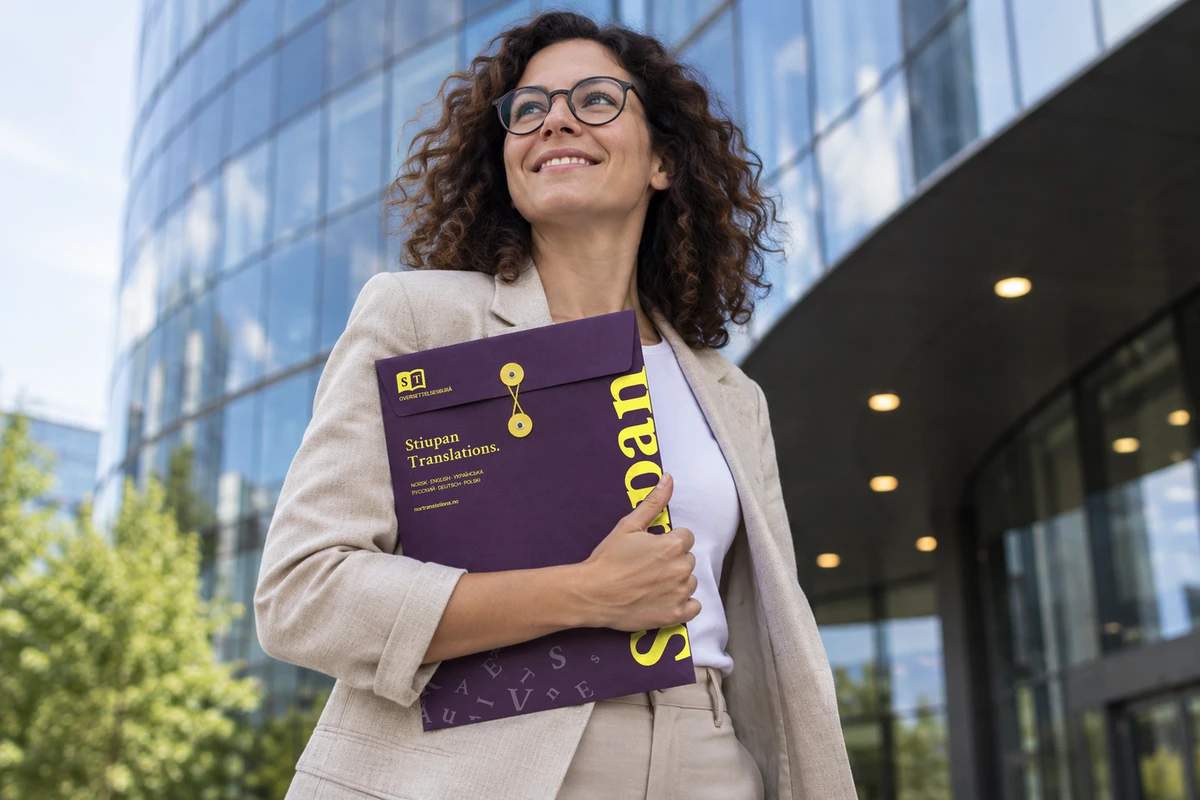
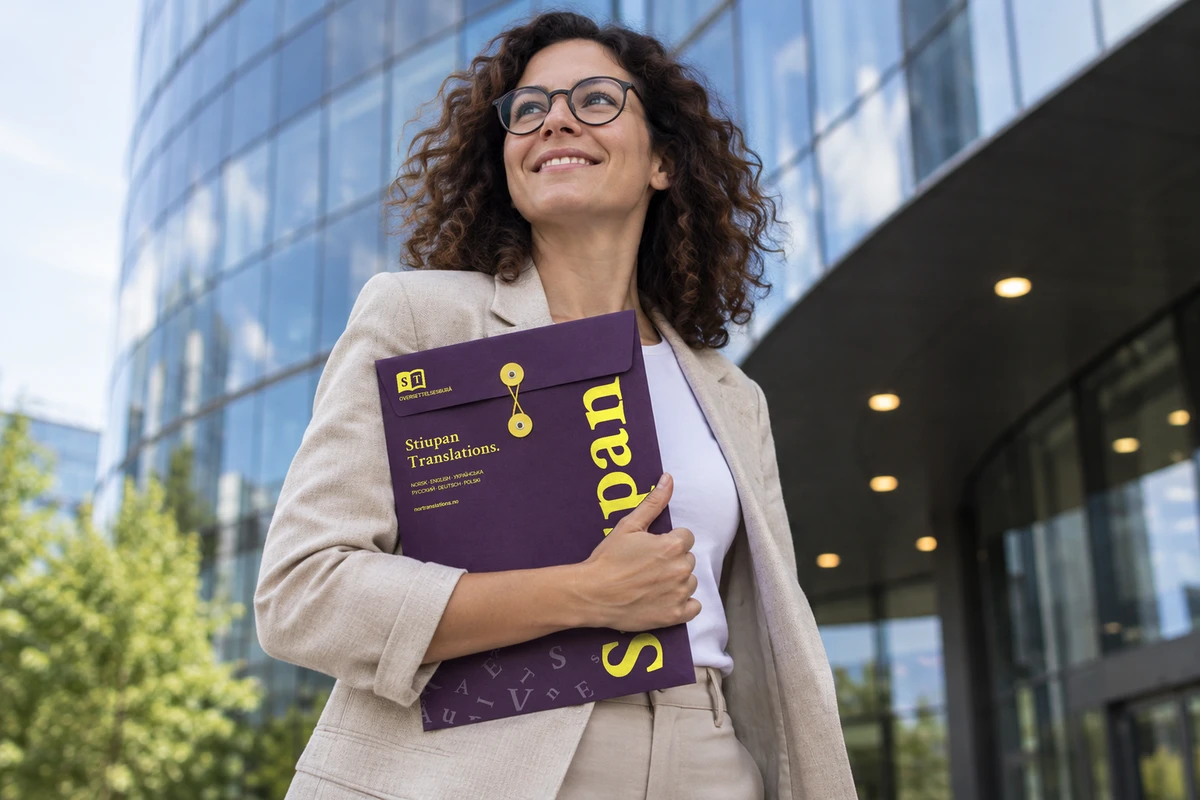
Styupan In use: whole wordmark inside the folder edge, no yellow on her thumb

Changed region(s): [[0.4625, 0.4688, 0.555, 0.6562], [0.4933, 0.7812, 0.5858, 0.8438]]

diff --git a/styupan.html b/styupan.html
@@ -285,7 +285,7 @@ footer .wrap{display:flex;justify-content:space-between;gap:16px;flex-wrap:wrap}
   <section class="wrap brand-sec" aria-labelledby="use-title">
     <div class="sec-head"><h2 id="use-title">In use</h2><span>Folder and stationery</span></div>
     <figure class="photo-fig">
-      <img src="assets/work/styupan/folder-1200.webp?v=5" srcset="assets/work/styupan/folder-1200.webp?v=5 1200w, assets/work/styupan/folder-1536.webp?v=5 1536w" sizes="(min-width:1320px) 1200px, 92vw" alt="A woman in a light linen jacket outside a glass office building carries a purple Stiupan Translations envelope folder hugged to her chest, with a yellow button-and-string closure, the mark on the flap, the name Stiupan set large up its right edge and pale letters scattered in the bottom corner." width="1200" height="800" loading="lazy">
+      <img src="assets/work/styupan/folder-1200.webp?v=6" srcset="assets/work/styupan/folder-1200.webp?v=6 1200w, assets/work/styupan/folder-1536.webp?v=6 1536w" sizes="(min-width:1320px) 1200px, 92vw" alt="A woman in a light linen jacket outside a glass office building carries a purple Stiupan Translations envelope folder hugged to her chest, with a yellow button-and-string closure, the mark on the flap, the name Stiupan set large up its right edge and pale letters scattered in the bottom corner." width="1200" height="800" loading="lazy">
     </figure>
     <figure class="panel">
       <div class="desk" role="img" aria-label="Stationery laid flat on a dark purple ground: an A4 letterhead with the logo, a short letter in Norwegian a handwritten signature to the right of the sign-off with the purple round seal stamped over it, a yellow envelope with the lockup and a stripe in purple, and a business card, front in purple with the yellow mark and back also in purple with the yellow lockup (mark, Stiupan Translations, OVERSETTELSESBURÅ) across the top, a name and title on the left, and contact lines below them in bold yellow.">

diff --git a/tools/folder-photo/render.py b/tools/folder-photo/render.py
@@ -40,14 +40,16 @@ def flat_art():
     art = Image.new("RGBA", (W * SS, H * SS), (0, 0, 0, 0))
     d = ImageDraw.Draw(art)
 
-    # Huge vertical wordmark, read bottom to top, cut by the right edge.
+    # Huge vertical wordmark, read bottom to top, along the right edge.
     big = font("ct700", 330)
     word = "Stiupan"
     bw = d.textlength(word, font=big)
-    strip = Image.new("RGBA", (int(bw) + 40 * SS, 420 * SS), (0, 0, 0, 0))
-    ImageDraw.Draw(strip).text((20 * SS, 0), word, font=big, fill=YELLOW)
+    x0, y0, x1, y1 = d.textbbox((0, 0), word, font=big)
+    strip = Image.new("RGBA", (x1 - x0, y1 - y0), (0, 0, 0, 0))
+    ImageDraw.Draw(strip).text((-x0, -y0), word, font=big, fill=YELLOW)
     strip = strip.rotate(90, expand=True)
-    art.alpha_composite(strip, (W * SS - int(strip.width * 0.74), H * SS - strip.height - 40 * SS))
+    # Whole word on the folder, its foot (the descender of p) a margin in from the right edge.
+    art.alpha_composite(strip, (W * SS - strip.width - 34 * SS, H * SS - strip.height - 40 * SS))
 
     # The mark and the descriptor on the flap.
     png = resvg_py.svg_to_bytes(svg_string=open("mark.svg", encoding="utf-8").read(), width=104 * SS)
@@ -99,7 +101,10 @@ def main():
     # her skin and sleeve are warmer (b - g < -15), the shirt is bright. Edge pixels that mix
     # skin and folder get partial print, so the hand covers the letters with no gap and no fringe.
     lum = (r + g + b) / 3
-    cover = np.clip((b - g + 12) / 30, 0, 1) * np.clip((175 - lum) / 25, 0, 1)
+    cover = np.clip((b - g + 4) / 26, 0, 1) * np.clip((175 - lum) / 25, 0, 1)
+    skin = Image.fromarray((((r - b > 22) & (r > g) & (b - g < 4)) * 255).astype("uint8"))
+    skin = skin.filter(ImageFilter.MedianFilter(3)).filter(ImageFilter.MaxFilter(3))
+    cover[np.asarray(skin) > 0] = 0
     button = (r > 150) & (g > 130) & (b < 140)
     cover[np.asarray(Image.fromarray((button * 255).astype("uint8")).filter(ImageFilter.MaxFilter(5))) > 0] = 0
     mask = np.minimum(np.asarray(face).astype(float), cover * 255)

diff --git a/styupan.md b/styupan.md
@@ -36,7 +36,7 @@ Sources: Instagram [@nortranslations](https://www.instagram.com/nortranslations/
 4. **Colour and type** — Purple #3C1A5B (RGB 60, 26, 91), Yellow #FFF748 (RGB 255, 247, 72), Paper #F5F5F5 (RGB 245, 245, 245), with CMYK as a plain RGB-to-CMYK conversion, marked as an estimate (Purple 34 71 0 64, Yellow 0 3 72 0, Paper 0 0 0 4; not a print-proofed profile); the Crimson Text specimen, laid out as in her reference (a close-up of an open white book with a quote beside it, 2026-09-29): a rendered open book fills the tile, a large purple "Aa" sits on the left, the name, OVERSETTELSESBURÅ and a Norwegian line on the right, the font name small below. The book is a three.js render, no stock photo ([`tools/book-render/open-book.html`](tools/book-render/open-book.html)): 46 curved sheets per side that rise from the gutter and fan out, a ribbon bookmark, soft light averaged over 96 passes, the table fading to white; the two top pages carry a day planner laid out after her reference (a purple Daily Planner spread, 2026-09-29) in the brand colours (purple tabs with yellow labels, pale purple rows, Crimson Text titles) and set up for the head of a translation bureau, in Norwegian: right page *Dagsplan* (Dagens oppdrag with Kunde · Språkpar · Frist, Frister i dag, Å gjøre, Viktige notater), left page *Oppfølging* (Fordeling with Oversetter · Oppdrag · Ord, Fakturering, Ring kunder, Korrektur); camera `cx=120&cy=112&cz=250&tx=10&ty=2&tz=50&fov=42&rot=48&sx=0.42&sy=-0.02`, light `ex=1.12&env=0.2&bounce=0.35&kx=700&ky=420&kz=150`, fog `f0=420&f1=1000`; `assets/work/styupan/type-book-2400.webp` + `-1200.webp`.
 5. **On light and dark** — the lockup (mark + name + OVERSETTELSESBURÅ) on Paper and on Purple, then the round seals (Figma 882:83893 purple, 882:83894 yellow): `seal-purple.svg` on Paper, `seal-yellow.svg` on Purple. In the yellow seal the S is purple, the colour of the ground (2026-09-29). Both asterisks in both seals now have equal, wider gaps (about 6° of the ring each side): the bottom asterisk is turned 1.65° clockwise, the top one 1.65° back, and the second "Stiupan Translations" 3.3° back (the bottom one had sat against the s, as in Figma 190:59101; 2026-10-09, her request).
 6. **Signage** — the office sign, as in her Seraj Law reference. *Waiting for her decision on the image* (a photo she provides, or a rendered mockup).
-7. **In use** — the folder photo (2026-10-08, her request): a new photo generated with Figma AI (gpt-image-2.5, her Pro plan) of a woman outside a glass office building carrying a plain purple envelope folder with a yellow button-and-string closure, hugged to her chest with her arm around it and her hand gripping its edge (regenerated 2026-10-08, her request: a person carrying a folder holds it in the arm); an AI image, not a real person. The folder face is printed after her reference, Kraft Folder with Bow mockup by Uneri Space on Behance: the mark and OVERSETTELSESBURÅ on the flap, "Stiupan Translations.", the six languages and nortranslations.no on the left; chaotically scattered letters in the bottom left corner, Paper at low opacity, after her sample of the billboard letters; and "Stiupan" in large Crimson Text Bold up the right edge, cut by it. The print is composited at twice the photo size as a layer under her hand: it covers the whole folder face, shadows included, right up to her fingers, and is cut only by what lies on top (skin, sleeve, the yellow buttons and string), never parted around the fingers; each pixel gets print by how purple it is, so the edge of her thumb and fingers covers the letters with no gap and no yellow on the skin; and the mark is drawn larger and sharper (2026-10-09, her request). Built with [`tools/folder-photo/render.py`](tools/folder-photo/render.py) (source photo `tools/folder-photo/base.png`); `folder-1536.webp` + `folder-1200.webp`. Replaces the earlier ChatGPT photo (Figma frame 881:83891).
+7. **In use** — the folder photo (2026-10-08, her request): a new photo generated with Figma AI (gpt-image-2.5, her Pro plan) of a woman outside a glass office building carrying a plain purple envelope folder with a yellow button-and-string closure, hugged to her chest with her arm around it and her hand gripping its edge (regenerated 2026-10-08, her request: a person carrying a folder holds it in the arm); an AI image, not a real person. The folder face is printed after her reference, Kraft Folder with Bow mockup by Uneri Space on Behance: the mark and OVERSETTELSESBURÅ on the flap, "Stiupan Translations.", the six languages and nortranslations.no on the left; chaotically scattered letters in the bottom left corner, Paper at low opacity, after her sample of the billboard letters; and "Stiupan" in large Crimson Text Bold up the right edge, the whole word on the folder with its foot a margin in from the edge (2026-10-09; it had been cut by the edge). The print is composited at twice the photo size as a layer under her hand: it covers the whole folder face, shadows included, right up to her fingers, and is cut only by what lies on top (skin, sleeve, the yellow buttons and string), never parted around the fingers; each pixel gets print by how purple it is, so the edge of her thumb and fingers covers the letters with no gap and no yellow on the skin; and the mark is drawn larger and sharper (2026-10-09, her request). Built with [`tools/folder-photo/render.py`](tools/folder-photo/render.py) (source photo `tools/folder-photo/base.png`); `folder-1536.webp` + `folder-1200.webp`. Replaces the earlier ChatGPT photo (Figma frame 881:83891).
 8. **Stationery** — letterhead, business cards and envelope laid out flat on a dark ground (reference: broot). Built in HTML and CSS from the brand; names and contacts are placeholders, not real people. Letterhead (2026-09-29): the footer divider is purple; a made-up handwritten signature (an SVG scribble, not a real person's) to the right of the sign-off lines, on a layer under the purple round seal (about 21 % of the letterhead width), which is stamped partly over it, where a Norwegian company stamp goes. Envelope (2026-09-29): yellow ground, the lockup and the stripe in purple; OVERSETTELSESBURÅ on it in Crimson Text Bold, a touch larger and wider spaced, so it reads crisply at that size (2026-10-09, her request). Business card back (2026-09-29): purple ground, all text in bold yellow. Card back only, in its right corner (2026-10-08; removed from the front at her request): letters scattered chaotically over the purple ground in a slightly darker purple, #2E1347 (changed from semi-transparent yellow at her request, 2026-10-08), mixed sizes and angles, some cut by the card edges, clear of the text. Layout after her reference (a white mockup card, 2026-09-29): across the top, the full lockup (mark, Stiupan Translations, OVERSETTELSESBURÅ), as in the brand lockup she sent; the name (larger, Crimson Text) and title left-aligned low on the card, close above the contact lines (city, website), no divider.
 9. **Badge and metro** (added 2026-09-29, her request) — two squares side by side, then one wide block, all built in HTML, CSS and SVG from the brand:
    - *Badge on the lanyard* (Paper): a staff badge on a purple lanyard printed "STIUPAN TRANSLATIONS · OVERSETTELSESBURÅ" in yellow (2026-09-29, in place of the tagline); the badge laid out after her reference (an ID card mockup, 2026-09-29): a dark plastic holder with a slotted top tab and side clips; the card white at the top with a placeholder name in two lines (Navn / Etternavn), a short rule and the bureau name Stiupan Translations under it, all in purple; purple below a straight divider, with the large yellow mark (2026-09-29).
